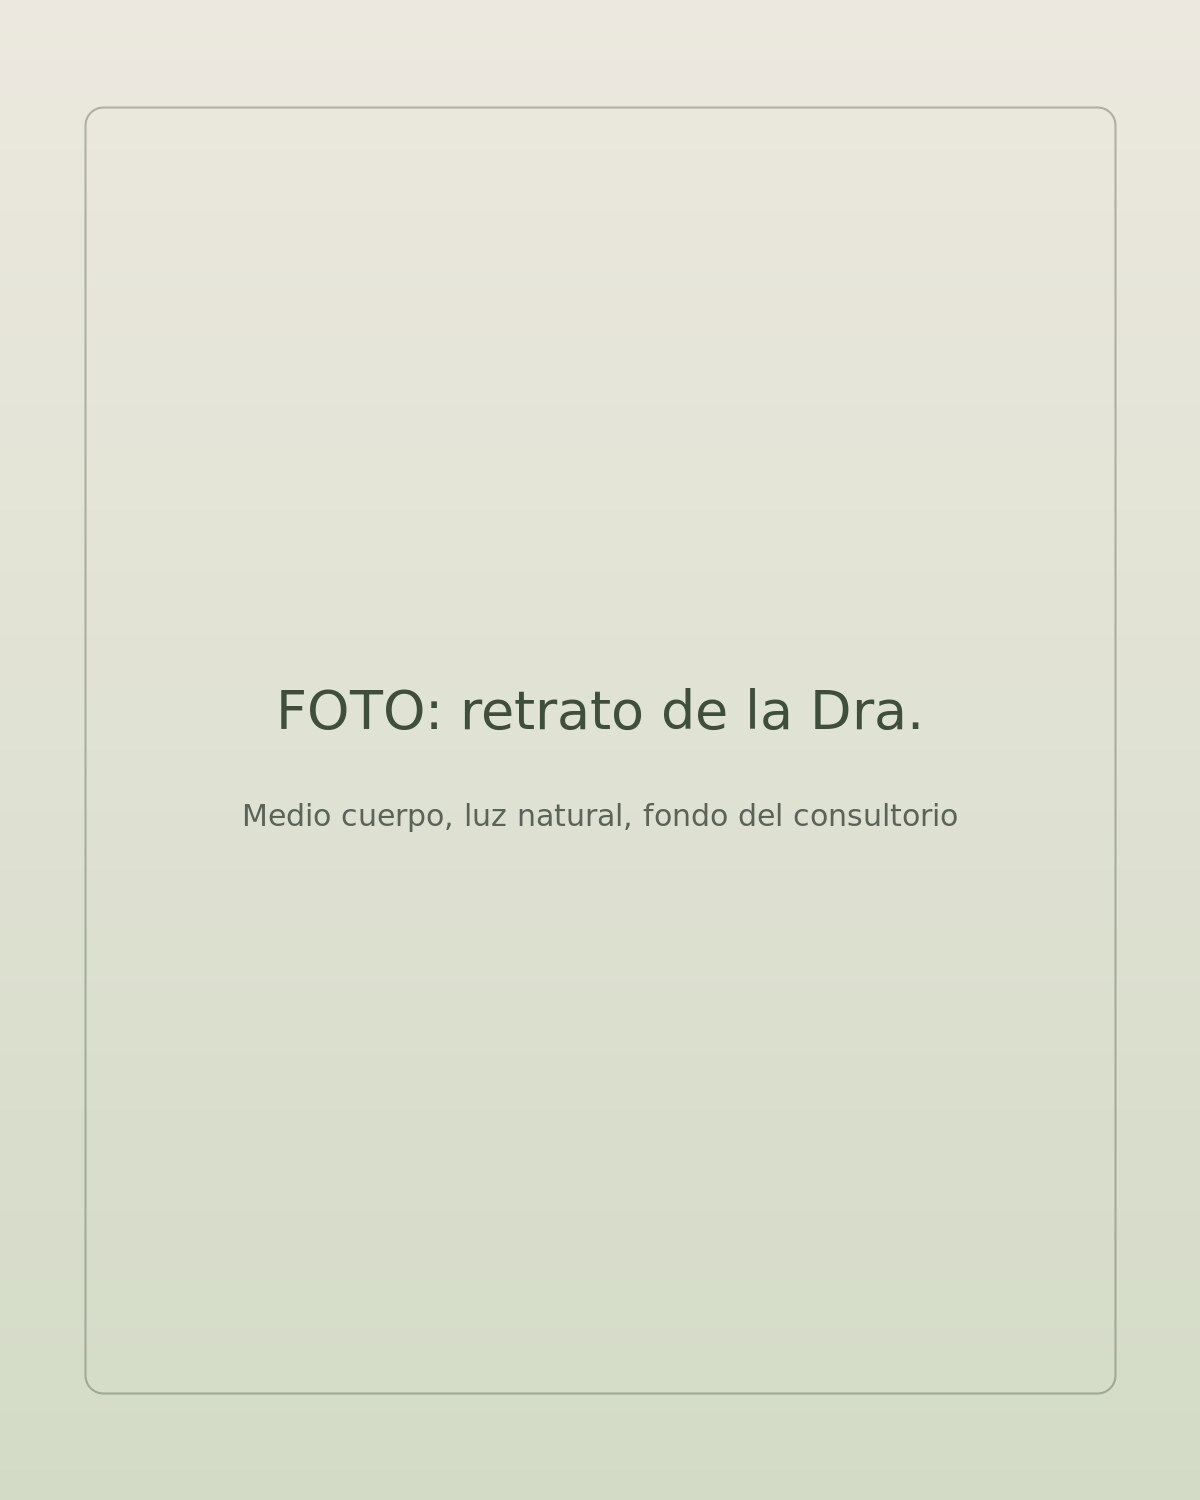
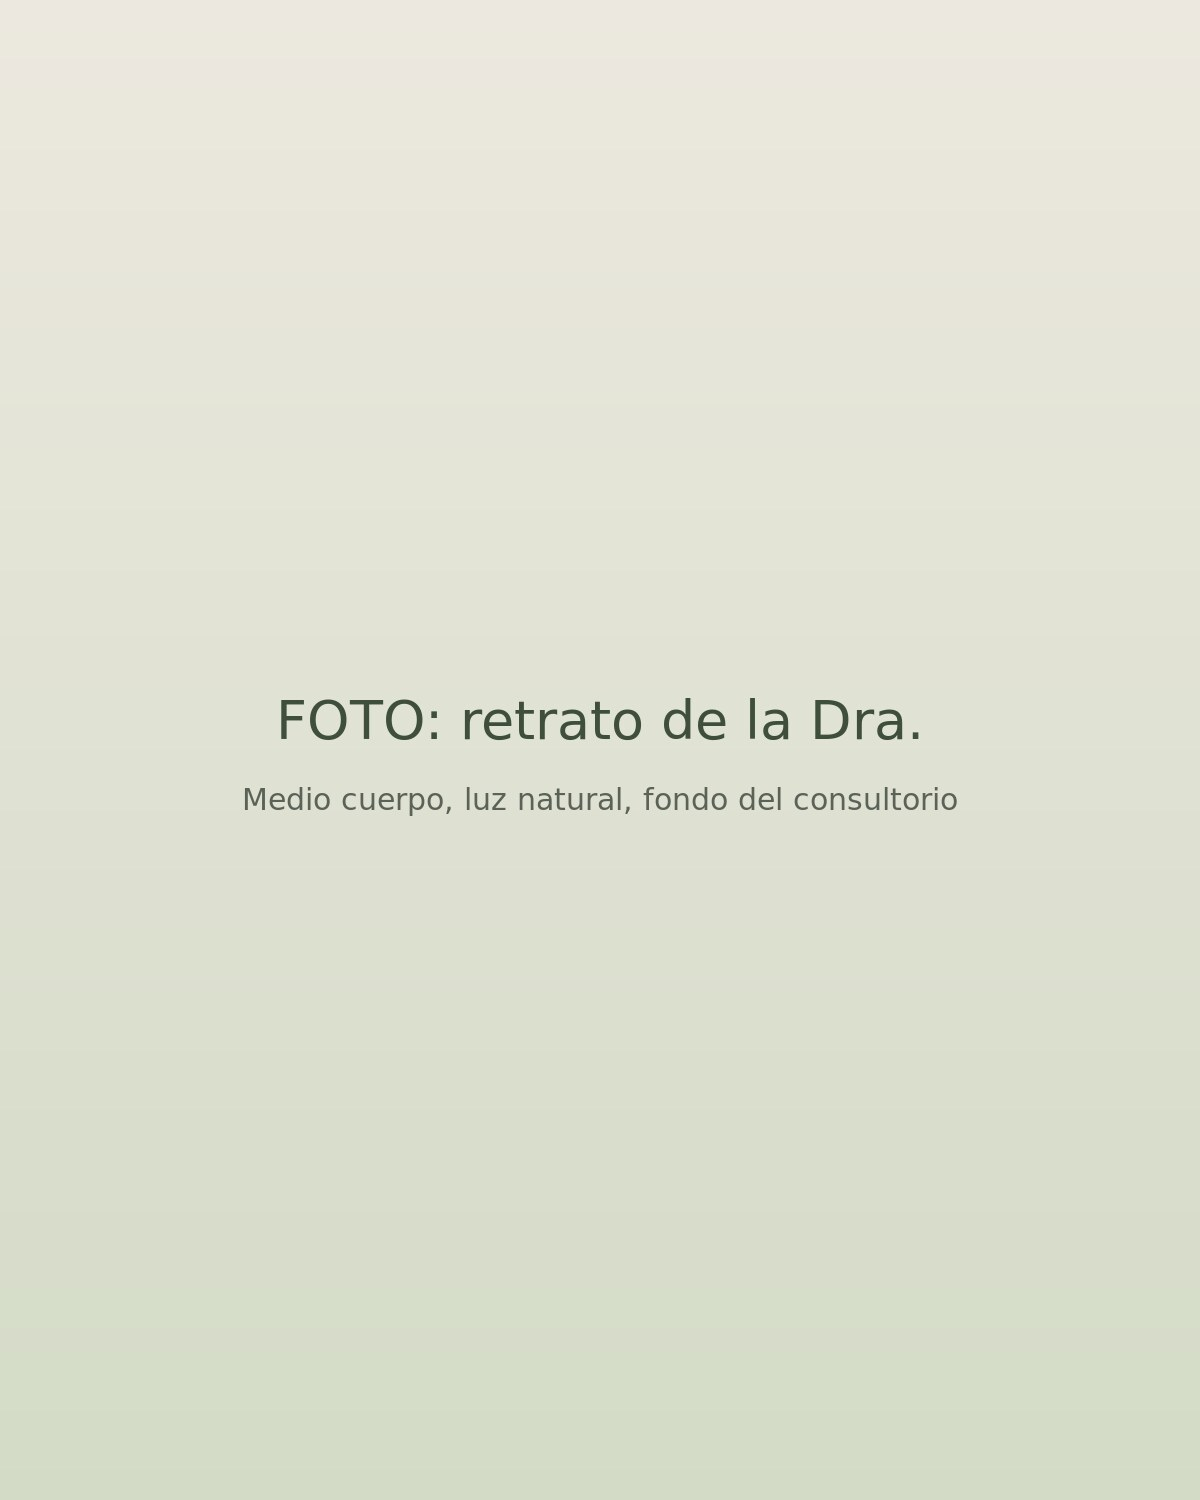
fix: restore hero headline scale and placeholder crop

Changed region(s): [[0.185, 0.5213, 0.8017, 0.552], [0.2158, 0.46, 0.7708, 0.4907]]

diff --git a/src/content/site.ts b/src/content/site.ts
@@ -155,8 +155,8 @@ export interface SiteContent {
   hero: {
     /** First line of the headline. */
     headline: string;
-    /** Second line, rendered in a muted tone. */
-    headlineMuted: string;
+    /** Muted continuation, one entry per forced line break. */
+    headlineMuted: string[];
     /** Follows the professional's name in the hero lead, e.g. "dermatóloga en Rosario." */
     byline: string;
     lead: string;
@@ -236,7 +236,7 @@ export const site: SiteContent = {
 
   hero: {
     headline: 'Cuidamos tu piel',
-    headlineMuted: 'con tiempo, ciencia y cercanía.',
+    headlineMuted: ['con tiempo, ciencia', 'y cercanía.'],
     byline: 'dermatóloga en Rosario.',
     lead: 'Consultas para toda la familia, con diagnóstico cuidadoso y tratamientos pensados para vos.',
     portraitAlt: 'Retrato de la Dra. Julieta Ferrari en su consultorio (imagen de ejemplo)',

diff --git a/src/styles/global.css b/src/styles/global.css
@@ -39,8 +39,11 @@
   --text-display-sm--line-height: 1.2;
   --text-display-md: clamp(2rem, 1.5rem + 2vw, 3rem);
   --text-display-md--line-height: 1.1;
-  --text-display-lg: clamp(2.375rem, 1.9rem + 1.6vw, 3rem);
-  --text-display-lg--line-height: 1.04;
+  --text-display-lg: clamp(2.25rem, 1.7rem + 2.4vw, 3.5rem);
+  --text-display-lg--line-height: 1.06;
+  /* Hero headline only. */
+  --text-display-xl: clamp(2.5rem, 1.6rem + 3.6vw, 4.5rem);
+  --text-display-xl--line-height: 1.04;
 
   /* Radii */
   --radius-chip: 14px;
